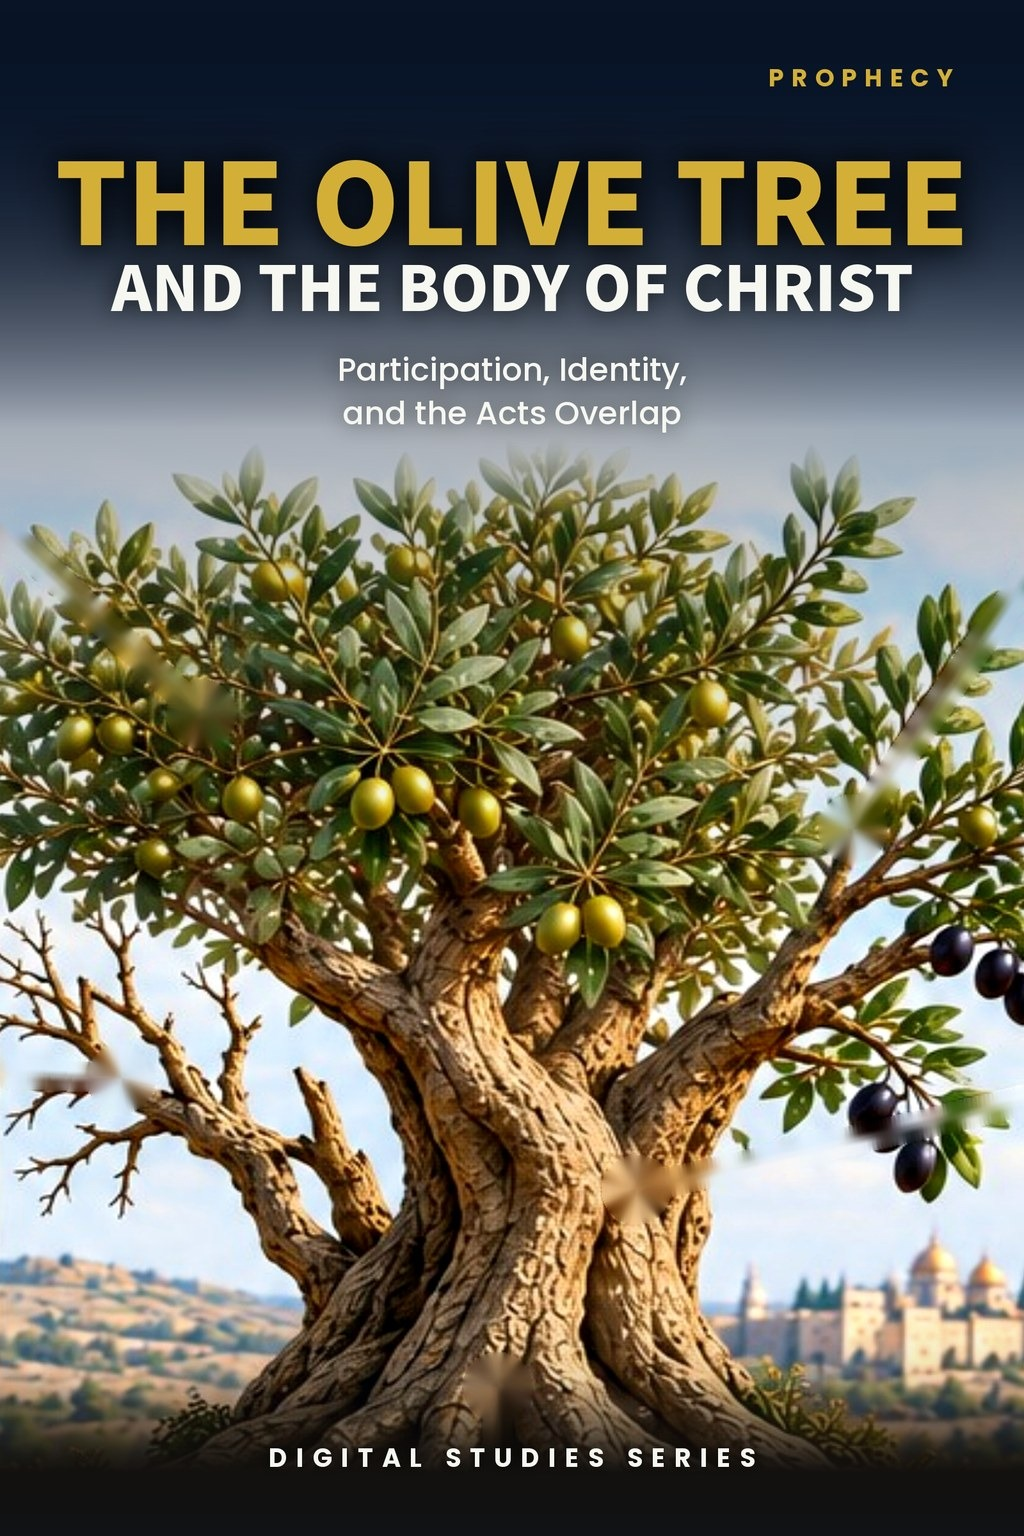
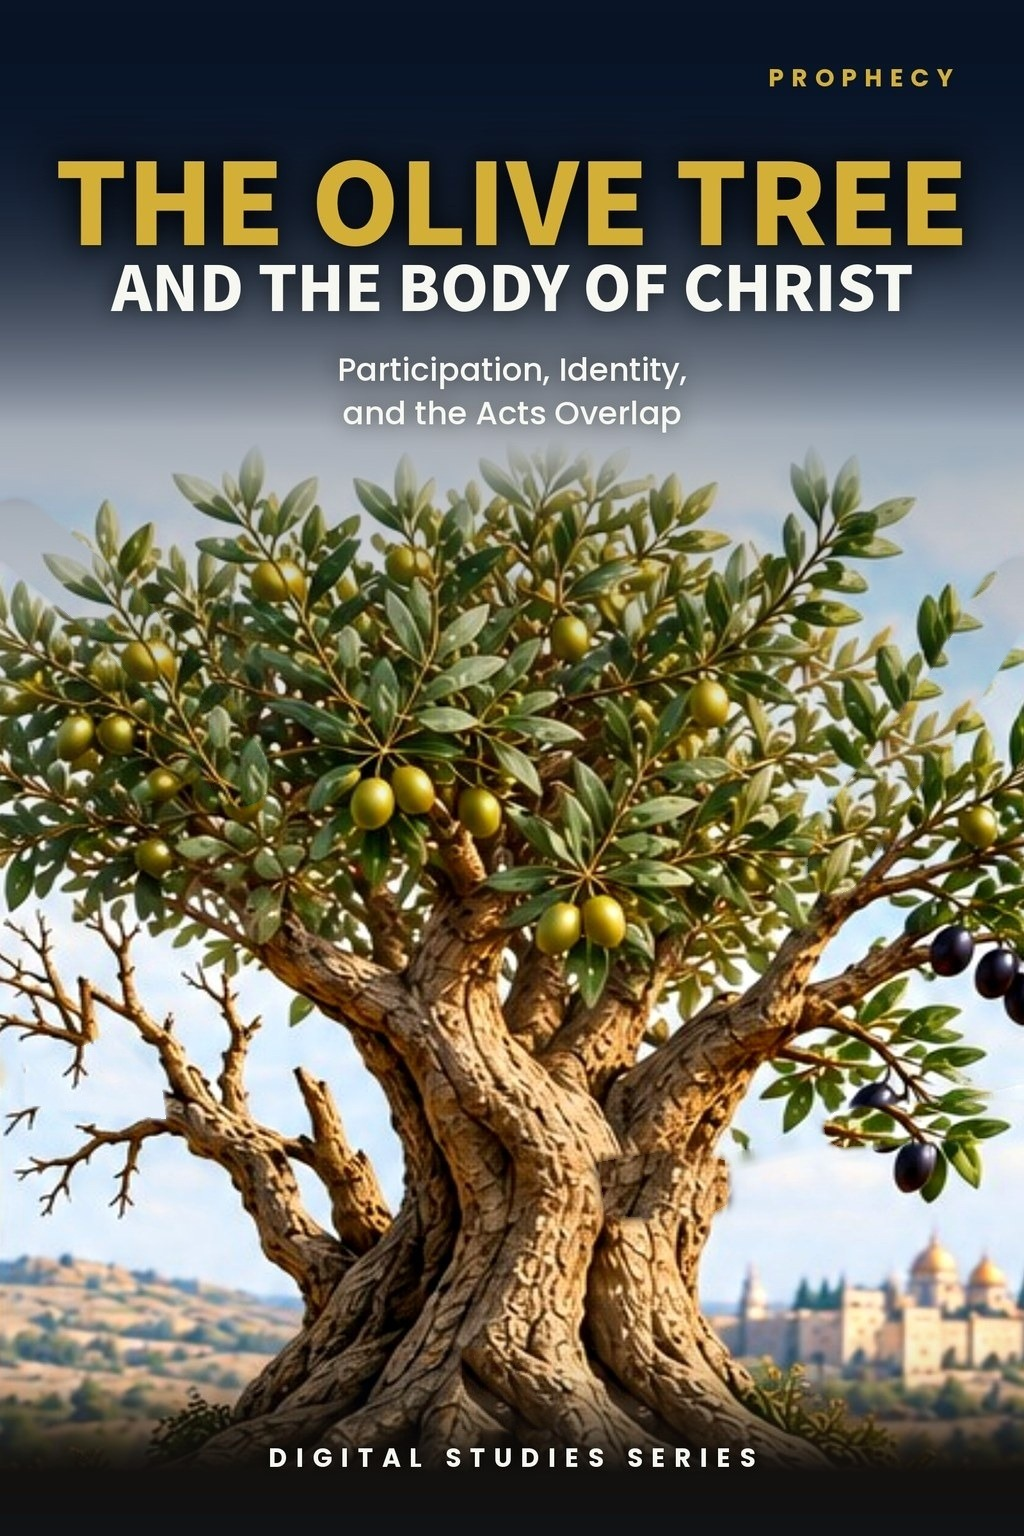
Study 13: rebuild from PDF to Master Standard v1.30; Rom 11:25 wording per PAM; retouched cover; 18 pages; preview strip re-cut; tracker v1.36
Claude-Session: https://claude.ai/code/session_01TLNFW47XCW6YAMUxScR3v4

diff --git a/study-13-the-olive-tree-and-the-body-of-christ.html b/study-13-the-olive-tree-and-the-body-of-christ.html
@@ -14,7 +14,7 @@
 <section class="detail-section soft"><div class="wrap"><div class="eyebrow">WHAT YOU’LL STUDY</div><h2>Let Paul’s Distinctions Govern the Illustration</h2><div class="study-points"><div class="study-point"><h3>Israel Has Not Been Cast Away</h3><p>Begin where Paul begins: God has not abandoned His people Israel.</p></div><div class="study-point"><h3>The Patriarchal Root</h3><p>Identify the Abrahamic source of prophetic blessing and privilege that supports the branches.</p></div><div class="study-point"><h3>Natural and Wild Branches</h3><p>Distinguish Israel’s natural relationship to the root from Gentile participation among the branches.</p></div><div class="study-point"><h3>Grafting and Standing</h3><p>See why breaking off and grafting in change standing without changing the branch’s identity.</p></div><div class="study-point"><h3>Israel’s Future Remains</h3><p>Read partial blindness, future reception, and the gifts and calling of God in their immediate context.</p></div><div class="study-point"><h3>The Olive Tree and the One Body</h3><p>Keep Romans 11’s prophetic participation distinct from the Mystery identity Paul explains in Ephesians 2.</p></div></div></div></section>
 <section class="detail-section cream"><div class="wrap"><div class="eyebrow">KEY SCRIPTURES</div><h2>Examine the Passages for Yourself</h2><div class="scripture-grid"><div class="scripture-card"><h3>Romans 11:1–6</h3><p>Establishes that God has not cast away His people Israel and identifies the remnant.</p></div><div class="scripture-card"><h3>Romans 11:11–15</h3><p>Traces Israel’s stumbling, Gentile salvation, and future receiving.</p></div><div class="scripture-card"><h3>Romans 11:16–18</h3><p>Introduces the patriarchal root, natural branches, wild branch, and warning against boasting.</p></div><div class="scripture-card"><h3>Romans 11:19–24</h3><p>Explains breaking off, standing by faith, and the possibility of grafting in again.</p></div><div class="scripture-card"><h3>Romans 11:25–29</h3><p>Affirms Israel’s partial blindness, future, and the gifts and calling of God.</p></div><div class="scripture-card"><h3>Ephesians 2:11–16</h3><p>Reveals the one new man and one Body in Christ according to the Mystery.</p></div><div class="scripture-card"><h3>Jeremiah 11:16–17</h3><p>Supplies Old Testament olive-tree imagery for careful comparison.</p></div><div class="scripture-card"><h3>Acts 9; 28:25–28</h3><p>Marks Mystery’s beginning with Paul and the later suspension of Prophecy.</p></div></div></div></section>
 <section class="detail-section"><div class="wrap"><div class="eyebrow">FROM THE STUDY</div><h2>Grafting Changes Participation, Not Identity</h2><div class="excerpt"><blockquote>“The wild branch is genuinely grafted in, yet it does not become a natural branch.”</blockquote><p>Romans 11 preserves Israel’s prophetic standing while explaining Gentile participation in Abrahamic-rooted blessing. Ephesians 2 establishes the Body’s new Mystery identity in Christ; these truths answer different questions and must not be collapsed into one metaphor.</p></div></div></section>
-<section class="detail-section soft"><div class="wrap"><div class="eyebrow">A LOOK INSIDE</div><h2>Preview the Study Before You Purchase</h2><p class="preview-instruction">Click any page to enlarge it for reading.</p><div class="preview-grid"><div class="preview-card"><a class="preview-image-link" data-preview-lightbox href="assets/study-13-page-2.jpg"><img src="assets/study-13-page-2.jpg" alt="Study 13 interior preview — page 2, what you will learn"/></a><div class="page-no">Page 2</div><h3>What You Will Learn</h3><p>See the study’s central questions and the controlling distinction between identity and participation.</p></div><div class="preview-card"><a class="preview-image-link" data-preview-lightbox href="assets/study-13-page-7.jpg"><img src="assets/study-13-page-7.jpg" alt="Study 13 interior preview — page 7, root and branches"/></a><div class="page-no">Page 7</div><h3>The Root and the Branches</h3><p>Examine the patriarchal root, natural branches, and the wild branch in Paul’s illustration.</p></div><div class="preview-card"><a class="preview-image-link" data-preview-lightbox href="assets/study-13-page-11.jpg"><img src="assets/study-13-page-11.jpg" alt="Study 13 interior preview — page 11, Body identity and Acts Overlap"/></a><div class="page-no">Page 11</div><h3>The Body’s Distinct Identity</h3><p>Set Ephesians 2 beside Romans 11 and place both within the Acts Overlap.</p></div><div class="preview-card"><a class="preview-image-link" data-preview-lightbox href="assets/study-13-page-14.jpg"><img src="assets/study-13-page-14.jpg" alt="Study 13 interior preview — page 14, Scripture tracing and teaching outline"/></a><div class="page-no">Page 14</div><h3>Scripture Tracing and Teaching</h3><p>Use the review questions and outline to test the study’s distinctions from Scripture.</p></div></div></div></section>
+<section class="detail-section soft"><div class="wrap"><div class="eyebrow">A LOOK INSIDE</div><h2>Preview the Study Before You Purchase</h2><p class="preview-instruction">Click any page to enlarge it for reading.</p><div class="preview-grid"><div class="preview-card"><a class="preview-image-link" data-preview-lightbox href="assets/study-13-page-2.jpg"><img src="assets/study-13-page-2.jpg" alt="Study 13 interior preview — page 2, table of contents"/></a><div class="page-no">Page 2</div><h3>Table of Contents</h3><p>See the full structure of the study, from the introduction through the final synthesis.</p></div><div class="preview-card"><a class="preview-image-link" data-preview-lightbox href="assets/study-13-page-3.jpg"><img src="assets/study-13-page-3.jpg" alt="Study 13 interior preview — page 3, what you will learn"/></a><div class="page-no">Page 3</div><h3>What You Will Learn</h3><p>See the skills and questions this study will teach you to work through.</p></div><div class="preview-card"><a class="preview-image-link" data-preview-lightbox href="assets/study-13-page-5.jpg"><img src="assets/study-13-page-5.jpg" alt="Study 13 interior preview — page 5, Israel has not been cast away"/></a><div class="page-no">Page 5</div><h3>Israel Has Not Been Cast Away</h3><p>Begin where Paul begins in Romans 11, with a question and the control it sets for the whole chapter.</p></div></div></div></section>
 <section class="detail-section"><div class="wrap"><div class="eyebrow">WHAT’S INCLUDED</div><h2>A Focused Study Built for<br/>Understanding and Teaching</h2><div class="includes-grid"><div class="include-item"><h3>15-Page In-Depth Biblical Study</h3><p>A focused, Scripture-based reading of Romans 11’s olive-tree illustration and Israel’s continuing future.</p></div><div class="include-item"><h3>Nine Core Teaching Sections</h3><p>Move from Paul’s opening control through the branches, the Body, and the Acts Overlap.</p></div><div class="include-item"><h3>Romans 11 Phrase-by-Phrase Study</h3><p>Work through the root, branches, grafting, partial blindness, and Israel’s future reception.</p></div><div class="include-item"><h3>Israel and Gentile Participation</h3><p>Distinguish standing and blessing from transferred identity, covenant status, or national inheritance.</p></div><div class="include-item"><h3>Romans 11 and Ephesians 2 Comparison</h3><p>See why the olive tree and the one Body address different doctrinal questions.</p></div><div class="include-item"><h3>Ten Review Questions</h3><p>Test the study’s controls concerning Israel, Gentiles, the root, and Body identity.</p></div><div class="include-item"><h3>Teaching Outline</h3><p>A ready framework for presenting Paul’s argument with precision and restraint.</p></div><div class="include-item"><h3>Guided Study and Final Synthesis</h3><p>Trace the passages directly and explain why participation does not determine identity.</p></div></div></div></section>
 <section class="detail-section cream"><div class="wrap"><div class="final-buy"><div><div class="eyebrow">STUDY 13 · DIGITAL STUDY</div><h2>The Olive Tree and the Body of Christ</h2><p>15-page digital PDF · For personal use</p></div><div class="final-offer"><div class="detail-price">$5.99</div><span class="detail-button pending" aria-disabled="true">Get the Study</span></div></div><a class="back-link" href="digital-studies.html">← Back to All Digital Studies</a></div></section><section class="study-method-course-bridge"><div class="wrap"><div class="study-method-course-panel"><div><div class="eyebrow">BUILD THE INTERPRETIVE METHOD</div><h2>Want More Than a Focused Study?</h2><p>Digital Studies examine particular biblical subjects and difficult passages. The 40-lesson Biblical Hermeneutics course teaches a complete, repeatable method for establishing meaning in context, determining proper assignment, and making responsible application.</p></div><a class="btn btn-primary" href="biblical-hermeneutics-course.html">BIBLICAL HERMENEUTICS COURSE</a></div></div></section></main>
 <div class="preview-lightbox" id="preview-lightbox" role="dialog" aria-modal="true" aria-label="Enlarged study page preview"><button class="preview-lightbox-close" type="button" aria-label="Close enlarged preview">×</button><img src="" alt=""/><div class="preview-lightbox-hint">Scroll to read the full page · Press Esc or click outside the page to close</div></div>

diff --git a/site.js b/site.js
@@ -62,7 +62,7 @@ const resourceModal=document.querySelector('#resource-modal'), resourceModalTitl
 if(resourceModal&&resourceModalTriggers.length){const closeResourceModal=()=>{resourceModal.hidden=true;document.body.classList.remove('resource-modal-open');lastResourceTrigger?.focus();};resourceModalTriggers.forEach(trigger=>trigger.addEventListener('click',()=>{lastResourceTrigger=trigger;if(resourceModalTitle)resourceModalTitle.textContent=trigger.dataset.title||'Resource';if(resourceModalDescription)resourceModalDescription.textContent=trigger.dataset.description||'';if(resourceModalLink){resourceModalLink.href=trigger.dataset.href||'#';resourceModalLink.textContent=trigger.dataset.linkText||'OPEN RESOURCE';}resourceModal.hidden=false;document.body.classList.add('resource-modal-open');resourceModalClose?.focus();}));resourceModalClose?.addEventListener('click',closeResourceModal);resourceModal.addEventListener('click',e=>{if(e.target===resourceModal)closeResourceModal();});document.addEventListener('keydown',e=>{if(e.key==='Escape'&&!resourceModal.hidden)closeResourceModal();});}
 
 /* Display the verified final-PDF page count at the primary purchase decision point. */
-const digitalStudyPageCounts={1:14,2:14,3:18,4:18,5:16,6:16,7:16,8:16,9:16,10:23,11:15,12:14,13:15,14:13,15:13,16:14,17:14,18:13,19:13,20:13,21:14,22:15,23:15,24:13,25:13,26:17,27:15,28:14,29:13,30:17,31:17,32:14,33:15,34:16,35:15,36:15,37:15,38:16,39:16,40:15,41:15,42:15,43:17,44:15,45:15,46:15,47:16,48:15,49:14,50:14,51:15,52:15,53:15,54:15,55:16,56:16,61:16,62:16,63:16,64:16,65:16,66:16,67:16,68:16,69:16,70:16,71:16};
+const digitalStudyPageCounts={1:14,2:14,3:18,4:18,5:16,6:16,7:16,8:16,9:16,10:23,11:15,12:14,13:18,14:13,15:13,16:14,17:14,18:13,19:13,20:13,21:14,22:15,23:15,24:13,25:13,26:17,27:15,28:14,29:13,30:17,31:17,32:14,33:15,34:16,35:15,36:15,37:15,38:16,39:16,40:15,41:15,42:15,43:17,44:15,45:15,46:15,47:16,48:15,49:14,50:14,51:15,52:15,53:15,54:15,55:16,56:16,61:16,62:16,63:16,64:16,65:16,66:16,67:16,68:16,69:16,70:16,71:16};
 const digitalStudyMatch=window.location.pathname.match(/\/study-(\d+)-/i);
 const digitalStudyFormat=document.querySelector('.detail-hero .detail-format');
 if(digitalStudyMatch&&digitalStudyFormat){const studyNumber=Number(digitalStudyMatch[1]),pageCount=digitalStudyPageCounts[studyNumber];if(pageCount)digitalStudyFormat.textContent=`Digital PDF · ${pageCount} Pages`;}

diff --git a/controlling-documents/Digital_Studies_PAM_Audit_v1.36.md b/controlling-documents/Digital_Studies_PAM_Audit_v1.36.md
@@ -62,7 +62,7 @@ Priority list (publisher's list):
 | 9 The Remnant | Clear | Remnant = Israel only; Romans 11:5; Romans 11:25 ruling | Consistent: preservation without identity transfer. |
 | 11 The Beginning of the Body of Christ | Clear | Acts 1–8 Kingdom; Acts 2 not the Body; Acts 9–28 Overlap | Pentecost kept in Joel 2 setting. |
 | 12 The New Covenant | Fixed (publisher approved) | New covenant parties Israel and Judah; Luke 22:20; Section 4 on 2 Cor 3:6 | Body benefits from Christ's work without being the covenant party. |
-| 13 The Olive Tree and the Body of Christ | Clear | Romans 11:25 ruling; Remnant | Romans 11 placed inside the Overlap. |
+| 13 The Olive Tree and the Body of Christ | Fixed (publisher approved) | Romans 11:25 ruling; Remnant | Romans 11 placed inside the Overlap. |
 | 14 Acts 9 and the Beginning of Mystery | Clear | Acts 1–8; Acts 9–28; Acts 10–11 ruling; Acts 15 ruling | Acts 10–12 presented as Peter's continuing ministry. PDF: confirm Acts 10–11 stays a Prophecy Program event. |
 | 18 Peter and Paul: Distinct Apostolic Commissions | Clear | Acts 9–28 Overlap; Acts 15; Galatians 2:7 | |
 | 19 The Jerusalem Council | Clear (PDF) | Acts 15 ruling (Overlap, not one program); Acts 10–11 ruling | PDF read: Acts 15 = recognition without absorption inside the Overlap; Acts 10 not assigned to the Body. |
@@ -262,3 +262,4 @@ Study 15 PDF not yet supplied. Typography: none of Studies 2, 3, 6, 8 is in EB G
 - v1.33 (2026-09-30): Study 11 (The Beginning of the Body of Christ) read in full against the PAM and Framework from the publisher's PDF (v12, 13 pages; he had no DOCX): clear (Pentecost kept in Israel's Prophecy Program, consistent with the Framework's "Acts 2 is not the beginning of the Body"; Acts 9-28 overlap and the Acts 28 suspension; no use of Acts 10-11 or Acts 15 beyond the rulings; the study itself states that Acts 9 never contains the sentence "the Body began here"). Approved by the publisher ("i approve") and pushed. Because no DOCX existed, an editable DOCX was reconstructed from the PDF text (structure inferred from font size and position; a word-by-word comparison of the new PDF against the source PDF found no wording changes apart from the moved table of contents, a period after four run-in labels, and the imprint) and then built to Master Standard v1.28/v1.29/v1.30: 15 pages (cover plus 14 interior; was 13), the publisher accepted 14 interior pages for this study, standard 0.67 in margins, Roboto only, five boxed callouts (Study Goal, Interpretive Control, Acts 9 Control, Acts Overlap Control, Final Control; Doctrinal Principle, Pentecost Control, Audience Control and Revelation Control became body paragraphs with a bold run-in lead), TOC first at body spacing with page numbers, Heading 1 at 12 pt, footer "ZAY-MARIE PRESS DIGITAL STUDIES SERIES" plus page number, no header text, review questions 1-12, standard end imprint (the source's own personal-use license wording was dropped at the publisher's OK). The study had no Study Outline; one was drafted from the Teaching Outline as process-only wording (section 17) and approved by the publisher (six bullets under the Study Goal; not a TOC entry). Builder changes: imprint is now appended after a closing callout table, not before it; sgen tolerates a missing Study Outline. Website: preview strip kept at three cards but re-cut (Page 2 Table of Contents, Page 3 What You Will Learn with the outline, Page 4 The Question Beneath the Question; the old third card's page opens with a conclusion heading); old page 5 image removed; page count 13 to 15 in site.js, the What's Included card and the hero line. Checked locally at 1280, 390, 360 and 320 px; not checked live (Cloudflare Access sign-in). The publisher swaps the purchasable PDF himself. Next file needed: Study 12.
 - v1.34 (2026-09-30): Study 10 (Daniel's Seventieth Week) read in full against the PAM and Framework from the publisher's DOCX (v17): clear (seventy weeks kept with Israel and Jerusalem; Acts 1–8 Prophecy, Acts 9 Mystery begins, Acts 9–28 overlap, Acts 28 suspension not cancellation; no Matt 24/Luke 17 rapture claims; Rom 11:25 only in a reading list). Rebuilt in Roboto to Master Standard v1.30 (12/8 headings, Study 8+ footer, no header): five boxed callouts (Study Goal, Audience Control, Chronology Control, Overlap Control, Final Truth; Redemption Control became a run-in paragraph), Study Outline drafted from the Teaching Outline, Investigation 6 heading supplied, duplicate Final Synthesis merged into one heading, broken source paragraphs rejoined, misplaced Scripture-Tracing paragraph moved, Roman-numeral Teaching Outline turned to bullets. Length: the study is about 8,000 words; condensing to 17 pages would have cut important content, so the publisher accepted 23 pages as an exception to §9 (cover plus 22 interior). Only restated material was removed (Judgment Is Not Redemption, Suffering Does Not Redeem Israel, Israel's Future Rests Upon God, Two Destinies Remain Distinct, four Conclusion subsections, the Conclusion recap bullets and closing paragraphs). Website: preview strip re-cut to TOC (p2), What You Will Learn (p3), Section 1 (p4); old extra preview images removed; page count stays 23. Approved by the publisher ("i approve") and pushed.
 - v1.35 (2026-09-30): Study 12 (The New Covenant) read in full against the PAM and Framework from the publisher's PDF (v21, 13 pages; no DOCX): clear except one framing point. Section 9.1 spoke of Paul's "ministry concerning the New Covenant during the Acts period"; per the Section 4 ruling on 2 Cor 3:6 (the new covenant stays with Israel/Judah; Paul's ministry stays with the Mystery) it now reads: "Paul's ministry in 2 Corinthians 3:6 belongs to the Mystery administration committed to him; it does not make the Body a covenant party. The New Covenant itself stays with Israel and Judah. His ability to speak of that covenant in his ministry does not require that his Mystery audience become Israel or Judah." (publisher approved the wording). Approved by the publisher ("i approve") at 14 pages and pushed. Rebuilt from the PDF in Roboto to Master Standard v1.30: five boxed callouts kept (Study Goal, Interpretive Control, Covenant Identity, Acts Overlap Clarification, Doctrinal Principle; Restoration Control and Redemptive Basis became run-in paragraphs), Study Outline drafted from the Teaching Outline, covenant-promises diagram and both tables kept, imprint standard text (personal-use wording dropped); 14 pages (cover plus 13 interior; source text is about 3,900 words). Website: preview strip re-cut to TOC (p2), What You Will Learn (p3), p5; old extra preview images removed; site.js page count 13 to 14.
+- v1.36 (2026-09-30): Study 13 (The Olive Tree and the Body of Christ) read in full against the PAM and Framework from the publisher's PDF (v11, 15 pages; no DOCX): clear except one point. The "Fullness of the Gentiles" paragraph (Rom 11:25) had said not to equate the expression with the Body's completion "without further textual argument"; per the PAM (Rom 11:25 = Prophecy Program, Israel's future restoration, not Body fullness) and the Section 4 ruling it now reads: "Romans 11:25 associates the limit of Israel's partial blindness with 'the fulness of the Gentiles.' This is Prophecy Program content concerning Israel's future restoration, stated during the Mystery administration. It is not the fullness of the Body of Christ, and it should not be equated with every other Pauline reference involving Gentile fullness." (publisher approved the wording; the next paragraph is unchanged). The source PDF, and the live purchasable PDF, had flattened headings and stray footer lines inside the text; the structure was rebuilt from the Table of Contents and run-in headings (25 subheadings restored). Rebuilt in Roboto to Master Standard v1.30: five boxed callouts (Study Goal, Interpretive Control, Grafting Control, Mystery Control, Acts Overlap Control; the other eight source controls/principles became run-in paragraphs), Study Outline drafted, standard imprint; 18 pages (cover plus 17 interior; publisher accepted 18). Cover: the website cover, with six blurred patches in the artwork retouched. Website: preview strip re-cut to TOC (p2), What You Will Learn (p3), p5; old extra preview images removed; cover image replaced with the retouched one; site.js page count 15 to 18. Approved by the publisher ("i approve") and pushed.
